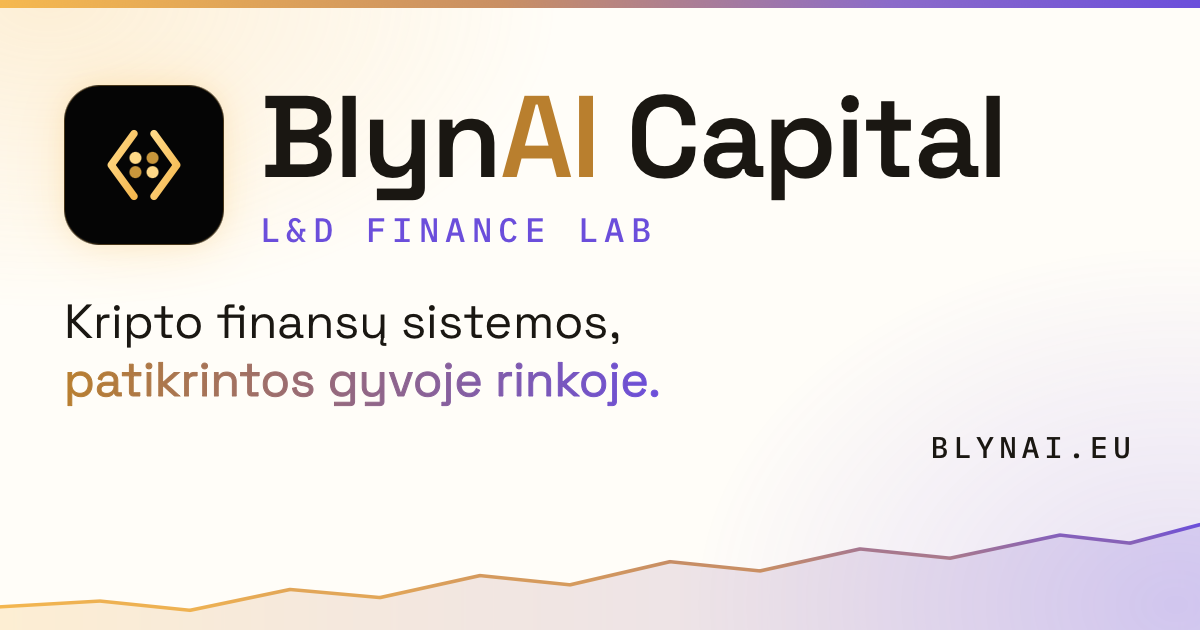
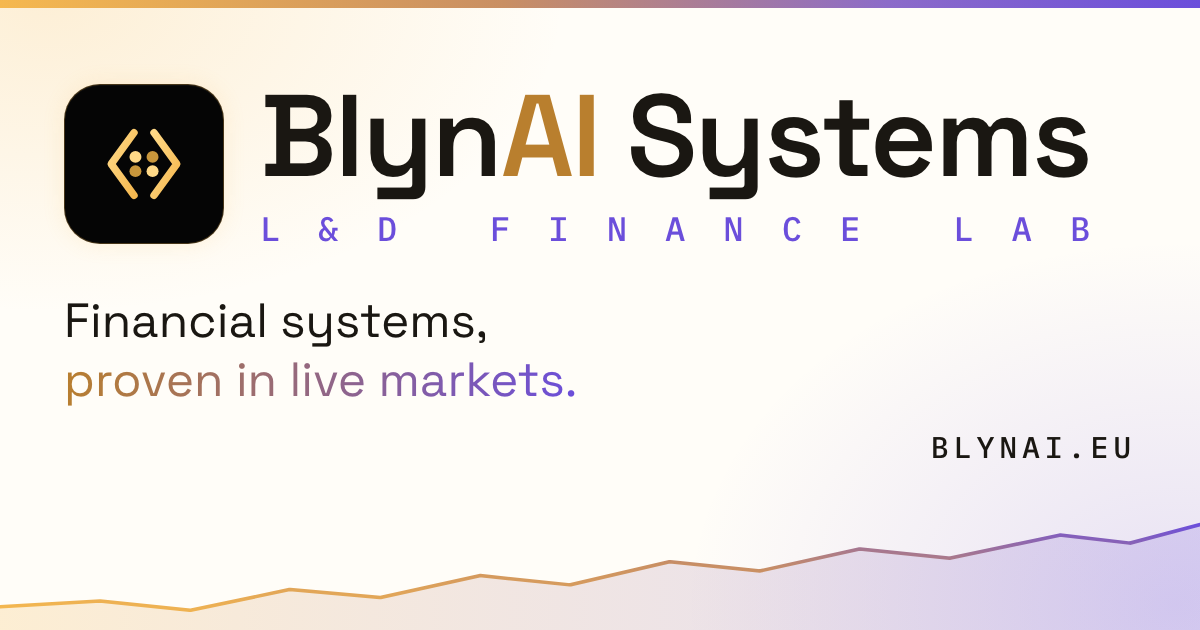
Two share cards, one per language, and a render bug that hid them
The designer's refreshed source ships both cards — BlynAI Systems, the
justified sub-line, and a tagline per language. Rebuilt on repo tokens and
self-hosted fonts in og/, so the copy stays editable, and rendered to
assets/og-card.png (EN, for /) and assets/og-card-lt.png (LT, for /lt/).
Until now both pages shared the Lithuanian card, so an English visitor sharing
the root got a Lithuanian preview.

Fixed a bug in tools/render.mjs that made the first attempt look successful
while changing nothing: the wait watches for the output file to appear and stop
growing, and a stale file of the same name satisfies that immediately, so the
old PNG survived and was reported as freshly rendered. The output is now
removed before Chrome starts.

diff --git a/og/og-card-lt.html b/og/og-card-lt.html
@@ -1,9 +1,9 @@
 <!DOCTYPE html>
-<html lang="en">
+<html lang="lt">
 <head>
 <meta charset="utf-8">
-<title>BlynAI Systems — OG card (EN)</title>
-<!-- Source of assets/og-card.png — the designer's
+<title>BlynAI Systems — OG kortelė (LT)</title>
+<!-- Source of assets/og-card-lt.png — the designer's
      card rebuilt on the repo's own tokens and self-hosted fonts, so the copy
      stays editable. Regenerate both PNGs with:  node tools/render.mjs -->
 <link rel="stylesheet" href="../ds/styles.css">
@@ -42,16 +42,16 @@ html,body{margin:0;background:var(--paper-200)}
         <small><span>L</span><span>&amp;</span><span>D</span><i></i><span>F</span><span>I</span><span>N</span><span>A</span><span>N</span><span>C</span><span>E</span><i></i><span>L</span><span>A</span><span>B</span></small>
       </span>
     </div>
-    <p class="ogc-tag">Financial systems,<br><span class="blyn-grad">proven in live markets.</span></p>
+    <p class="ogc-tag">Finansų sistemos,<br><span class="blyn-grad">patikrintos gyvose rinkose.</span></p>
     <p class="ogc-url">blynai.eu</p>
   </div>
   <svg class="ogc-curve" viewBox="0 0 1200 190" preserveAspectRatio="none" aria-hidden="true">
     <defs>
-      <linearGradient id="ogl-en" x1="0" y1="1" x2="1" y2="0"><stop offset="0" stop-color="#F5B84F"/><stop offset=".55" stop-color="#C98F63"/><stop offset="1" stop-color="#6B4EDB"/></linearGradient>
-      <linearGradient id="ogf-en" x1="0" y1="0" x2="1" y2="0"><stop offset="0" stop-color="rgba(245,184,79,.22)"/><stop offset="1" stop-color="rgba(107,78,219,.18)"/></linearGradient>
+      <linearGradient id="ogl-lt" x1="0" y1="1" x2="1" y2="0"><stop offset="0" stop-color="#F5B84F"/><stop offset=".55" stop-color="#C98F63"/><stop offset="1" stop-color="#6B4EDB"/></linearGradient>
+      <linearGradient id="ogf-lt" x1="0" y1="0" x2="1" y2="0"><stop offset="0" stop-color="rgba(245,184,79,.22)"/><stop offset="1" stop-color="rgba(107,78,219,.18)"/></linearGradient>
     </defs>
-    <path d="M0 150 L100 140 L190 156 L290 120 L380 134 L480 96 L570 112 L670 72 L760 88 L860 50 L950 66 L1060 26 L1130 40 L1200 8 L1200 190 L0 190 Z" fill="url(#ogf-en)"/>
-    <path d="M0 150 L100 140 L190 156 L290 120 L380 134 L480 96 L570 112 L670 72 L760 88 L860 50 L950 66 L1060 26 L1130 40 L1200 8" fill="none" stroke="url(#ogl-en)" stroke-width="6" stroke-linejoin="round" stroke-linecap="round"/>
+    <path d="M0 150 L100 140 L190 156 L290 120 L380 134 L480 96 L570 112 L670 72 L760 88 L860 50 L950 66 L1060 26 L1130 40 L1200 8 L1200 190 L0 190 Z" fill="url(#ogf-lt)"/>
+    <path d="M0 150 L100 140 L190 156 L290 120 L380 134 L480 96 L570 112 L670 72 L760 88 L860 50 L950 66 L1060 26 L1130 40 L1200 8" fill="none" stroke="url(#ogl-lt)" stroke-width="6" stroke-linejoin="round" stroke-linecap="round"/>
   </svg>
 </div>
 </body>

diff --git a/lt/index.html b/lt/index.html
@@ -16,17 +16,17 @@
 <meta property="og:site_name" content="MB „BlynAI“">
 <meta property="og:title" content="MB „BlynAI“ — L&amp;D Finance Lab · finansų sistemų laboratorija">
 <meta property="og:description" content="Dviejų narių bendrija, kurianti finansines sistemas ir tikrinanti jas gyvoje rinkoje savo lėšomis. Kiekvienas sprendimas įrašomas, kodas atviras. Finansinių paslaugų neteikiame.">
-<meta property="og:image" content="https://blynai.eu/assets/og-card.png">
+<meta property="og:image" content="https://blynai.eu/assets/og-card-lt.png">
 <meta property="og:image:type" content="image/png">
 <meta property="og:image:width" content="1200">
 <meta property="og:image:height" content="630">
-<meta property="og:image:alt" content="BlynAI Systems — kripto finansų sistemos, patikrintos gyvoje rinkoje">
+<meta property="og:image:alt" content="BlynAI Systems — finansų sistemos, patikrintos gyvose rinkose">
 <meta property="og:locale" content="lt_LT">
 <meta property="og:locale:alternate" content="en_US">
 <meta name="twitter:card" content="summary_large_image">
 <meta name="twitter:title" content="MB „BlynAI“ — L&amp;D Finance Lab · finansų sistemų laboratorija">
 <meta name="twitter:description" content="Dviejų narių bendrija, kurianti finansines sistemas ir tikrinanti jas gyvoje rinkoje savo lėšomis. Kiekvienas sprendimas įrašomas, kodas atviras.">
-<meta name="twitter:image" content="https://blynai.eu/assets/og-card.png">
+<meta name="twitter:image" content="https://blynai.eu/assets/og-card-lt.png">
 
 <meta name="theme-color" content="#050505">
 <link rel="icon" href="../favicon.ico" sizes="32x32">
@@ -511,7 +511,7 @@
   "description": "Dviejų narių bendrija, kurianti finansines sistemas ir tikrinanti jas gyvoje kriptoturto rinkoje savo lėšomis. Kiekvienas sprendimas įrašomas, kodas atviras.",
   "inLanguage": "lt",
   "logo": "https://blynai.eu/assets/logo-avatar-512.svg",
-  "image": "https://blynai.eu/assets/og-card.png",
+  "image": "https://blynai.eu/assets/og-card-lt.png",
   "email": "info@blynai.eu",
   "address": {"@type": "PostalAddress", "addressCountry": "LT"},
   "founder": [

diff --git a/index.html b/index.html
@@ -20,7 +20,7 @@
 <meta property="og:image:type" content="image/png">
 <meta property="og:image:width" content="1200">
 <meta property="og:image:height" content="630">
-<meta property="og:image:alt" content="BlynAI Systems — crypto finance systems, proven in a live market">
+<meta property="og:image:alt" content="BlynAI Systems — financial systems, proven in live markets">
 <meta property="og:locale" content="en_US">
 <meta property="og:locale:alternate" content="lt_LT">
 <meta name="twitter:card" content="summary_large_image">

diff --git a/docs/OG-CARD-BRIEF.md b/docs/OG-CARD-BRIEF.md
@@ -1,0 +1,69 @@
+# Brief: refresh the OG / social-share card
+
+The shipped `assets/og-card.png` is now out of date on two counts and needs a
+new render. Everything else about the card — layout, washes, gradient rule,
+equity curve, proportions — stays exactly as you built it.
+
+## What changed on the site
+
+1. **The wordmark is now `BlynAI Systems`.** "Capital" is retired brand-wide —
+   it read as a fund / asset manager, which is precisely what the company is
+   not, and it clashed with the legal disclaimer. The card still says
+   "BlynAI Capital".
+2. **The site is now bilingual**: English at `/` (default, x-default) and
+   Lithuanian at `/lt/`. Both pages currently point at the *same* Lithuanian
+   card, so an English visitor sharing the root gets a Lithuanian preview.
+3. **The headline changed.** The hero now reads (EN):
+   *We learn by building and ship what we've learned. / Test in live markets.
+   Measure what works, and publish what doesn't.*
+   (LT): *Mokomės kurdami ir išleidžiame tai, ko išmokome. / Tikriname gyvose
+   rinkose. Matuojame, kas veikia, ir skelbiame, kas ne.*
+
+## Deliverables
+
+Two cards, 1200×630, same design, different language:
+
+| File | Language | Used by |
+|---|---|---|
+| `og-card.png` | English | `/` (root, default) |
+| `og-card-lt.png` | Lithuanian | `/lt/` |
+
+## Copy
+
+**Lockup (both cards, unchanged apart from the name)**
+- Wordmark: `BlynAI Systems` — "Blyn" cream, "AI" gold-700, "Systems" cream.
+  Never "Capital".
+- Sub-line: `L&D FINANCE LAB`, violet-700, mono, uppercase.
+
+**Tagline — English card**
+> Financial systems, proven in live markets.
+
+**Tagline — Lithuanian card**
+> Finansų sistemos, patikrintos gyvose rinkose.
+
+Line 1 in ink, line 2 in the gold→violet gradient text, as now. If you prefer
+to carry the full hero line instead of this condensed pair, it is your call —
+but at 48px the hero sentence runs long, which is why it is shortened here.
+
+**Domain line:** `BLYNAI.EU`, mono, uppercase, right-aligned — unchanged.
+
+## Unchanged specs (for reference)
+
+Light paper ground with the gold/violet washes; 8px gold→violet gradient rule
+at the top; mark on the ink plate, gold border, no outer glow; full-bleed
+equity-curve SVG along the bottom, 6px stroke. `logo-mark.svg` is byte-identical
+to the repo's — do not redraw it.
+
+## Rules that still apply
+
+- No performance numbers of any kind — no returns, no win rate, no P&L.
+- No green or red.
+- No icons, no emoji, no stock imagery.
+- Lithuanian is the authoritative language for legal copy; the English card is
+  a mirror, not a separate claim.
+
+## Handover
+
+Send both PNGs at exactly 1200×630 (1×). We will drop them into `assets/` and
+point each page's `og:image` at its own language. If you also ship the HTML
+source, we keep it in `og/` so the copy can be edited later without a re-render.
